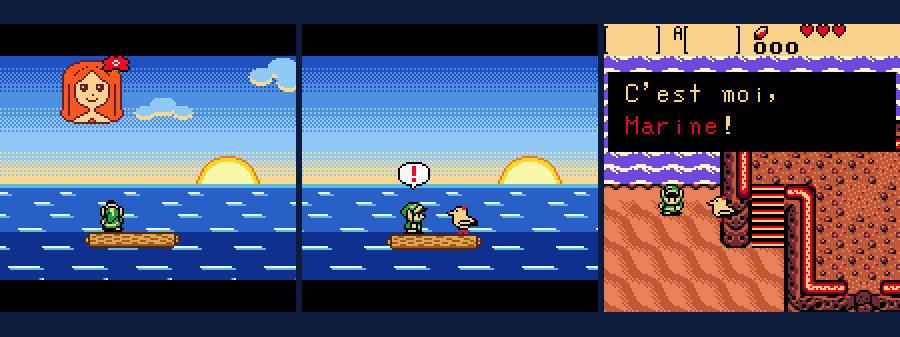
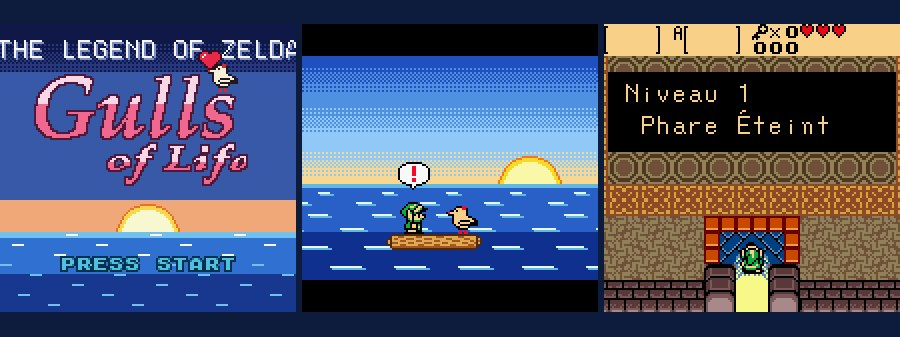
Zelda Gulls of Life : démo v0.3 jouable (FR/EN), lien vers le patch, nouvelle vignette

diff --git a/data.js b/data.js
@@ -547,12 +547,13 @@ const PROJECTS = [
   {
     cat: "creation", game: "zelda", new: true,
     title: "Zelda : Gulls of Life",
-    kind: "Jeu Game Boy Color · en cours",
-    desc: "La suite de Link's Awakening que je crée de A à Z : Marine a fait un vœu, elle revient en mouette et accompagne Link dans un archipel où plus personne ne rêve. Histoire, îles, salles, film d'ouverture, sprites et dialogues : tout est nouveau, seul le moteur d'Oracle of Ages sert de base.",
-    en: { title: "Zelda: Gulls of Life", kind: "Game Boy Color game · in progress",
-      desc: "The Link's Awakening sequel I'm building from scratch: Marine made a wish, she comes back as a seagull and travels with Link through an archipelago where nobody dreams anymore. Story, islands, rooms, opening scene, sprites and dialogue are all new; only the Oracle of Ages engine is reused." },
+    kind: "Jeu Game Boy Color · démo v0.3",
+    desc: "La suite de Link's Awakening que je crée de A à Z : Marine a fait un vœu, elle revient en mouette et accompagne Link dans un archipel où plus personne ne rêve. Histoire, îles, salles, film d'ouverture, sprites et dialogues : tout est nouveau, seul le moteur d'Oracle of Ages sert de base. La démo, tout le premier chapitre jusqu'au Phare Éteint, se joue en français ou en anglais : un patch à appliquer sur sa propre ROM Oracle of Ages.",
+    en: { title: "Zelda: Gulls of Life", kind: "Game Boy Color game · demo v0.3",
+      desc: "The Link's Awakening sequel I'm building from scratch: Marine made a wish, she comes back as a seagull and travels with Link through an archipelago where nobody dreams anymore. Story, islands, rooms, opening scene, sprites and dialogue are all new; only the Oracle of Ages engine is reused. The demo, the whole first chapter up to the Dark Lighthouse, plays in French or English: a patch to apply to your own Oracle of Ages ROM." },
     url: "https://soaresden.github.io/ZeldaGullsOfLife/",
     repo: "ZeldaGullsOfLife",
+    links: [{ label: "Démo v0.3 (patch)", en: "Demo v0.3 (patch)", url: "https://github.com/soaresden/ZeldaGullsOfLife/releases/latest" }],
     platforms: ["gbc"],
     shot: "gullsoflife"
   },

diff --git a/index.html b/index.html
@@ -9,7 +9,7 @@
   <link rel="preconnect" href="https://fonts.googleapis.com">
   <link rel="preconnect" href="https://fonts.gstatic.com" crossorigin>
   <link href="https://fonts.googleapis.com/css2?family=Bricolage+Grotesque:opsz,wght@12..96,500;12..96,700;12..96,800&family=Instrument+Sans:wght@400;500;600&family=JetBrains+Mono:wght@500&display=swap" rel="stylesheet">
-  <link rel="stylesheet" href="styles.css?v=33">
+  <link rel="stylesheet" href="styles.css?v=34">
 </head>
 <body>
   <div class="app">
@@ -60,8 +60,8 @@
     <nav class="cat-grid" id="catGrid"></nav>
   </dialog>
 
-  <script src="data.js?v=33"></script>
-  <script src="art.js?v=33"></script>
-  <script src="script.js?v=33"></script>
+  <script src="data.js?v=34"></script>
+  <script src="art.js?v=34"></script>
+  <script src="script.js?v=34"></script>
 </body>
 </html>

diff --git a/script.js b/script.js
@@ -153,7 +153,7 @@ function renderHead(items){
 }
 
 // À monter quand une capture de shots/ est remplacée (sinon le navigateur garde l'ancienne)
-const SHOTS_VERSION = 7;
+const SHOTS_VERSION = 8;
 const img = (shot) => `<img src="shots/${shot}.jpg?v=${SHOTS_VERSION}" alt="" loading="lazy" decoding="async" width="900" height="337">`;
 function artFor(p){
   if (p.shot) return img(p.shot);
